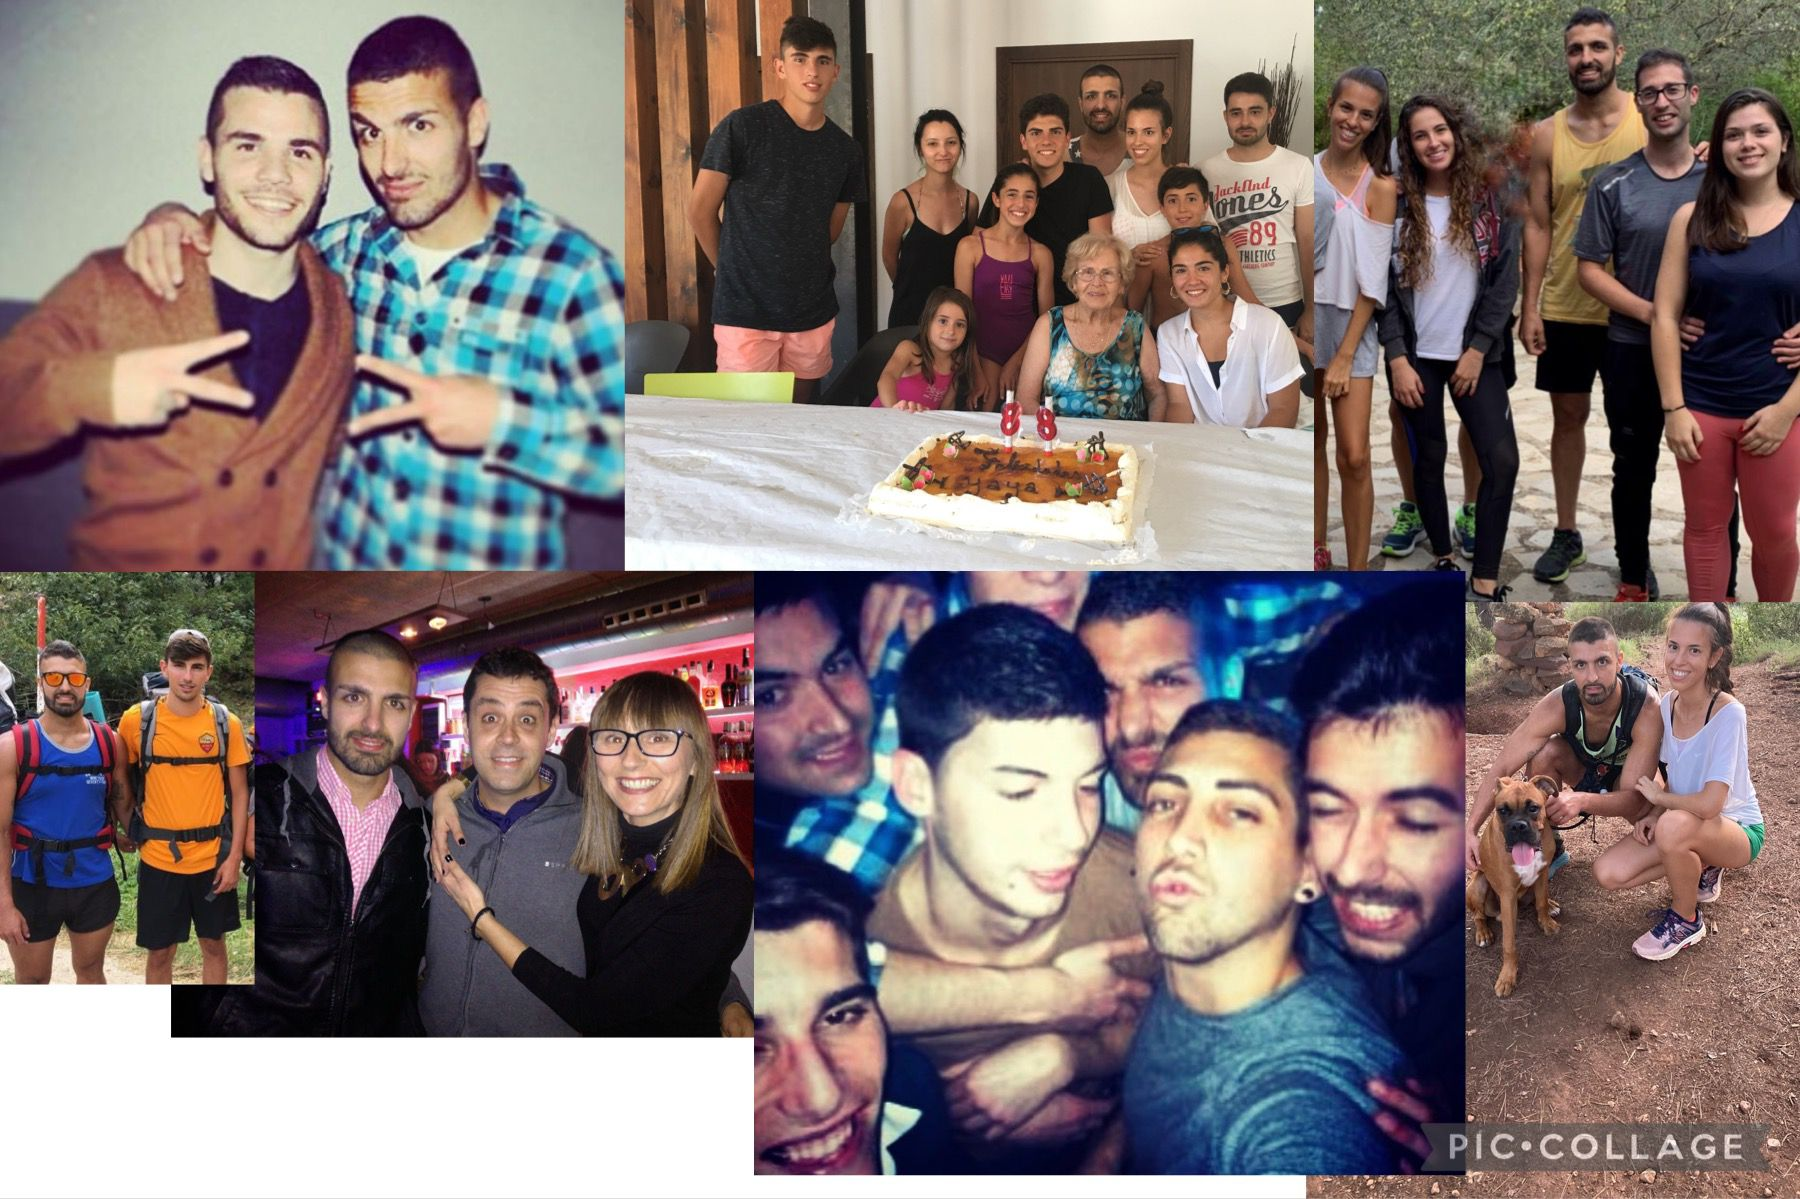
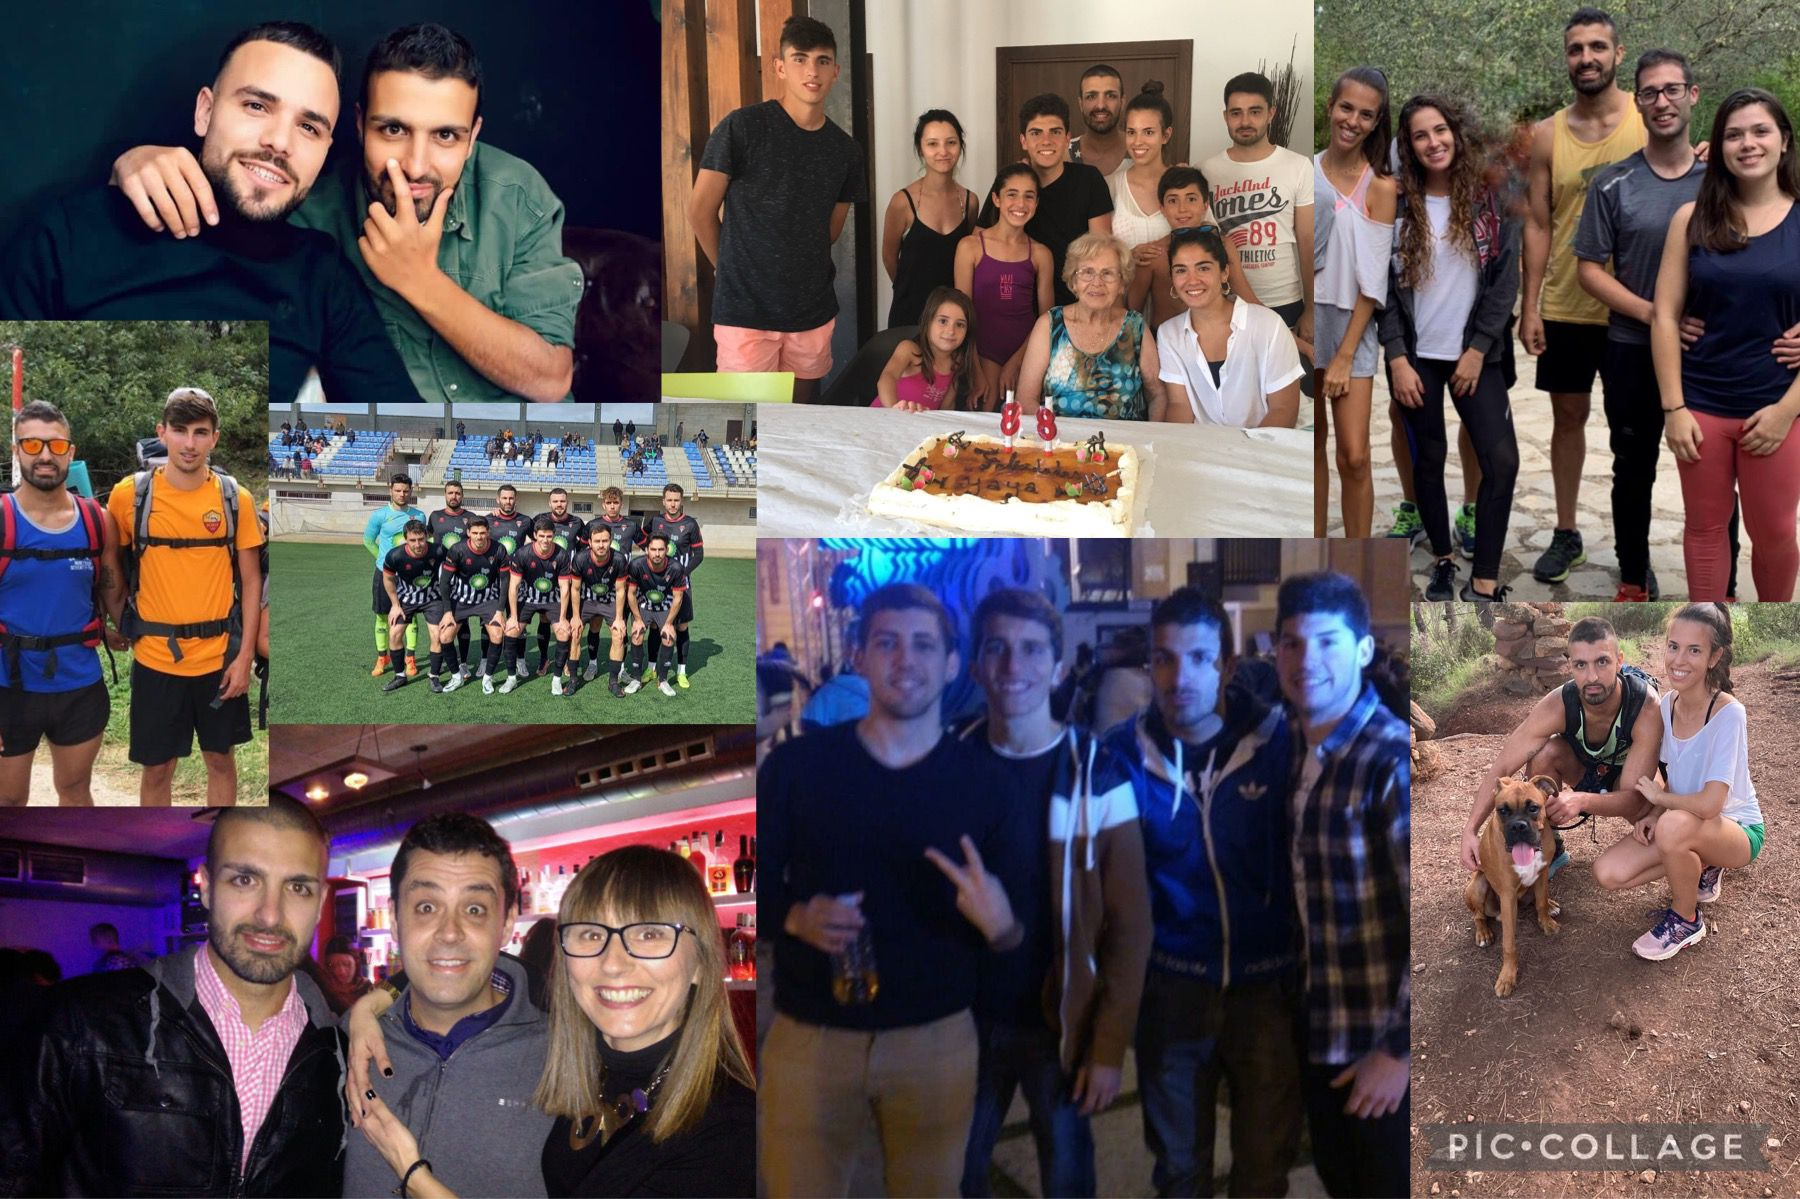
Add tor

diff --git a/index.html b/index.html
@@ -22,14 +22,24 @@
 
       <p>Con 30 y con muchos más sigue peleando por lo que más te gusta y lo que más te llena, el futbol, ¡¡por que no hay persona más luchadora e implicada que tú!! ❤💪🏽</p>
       <img class="bebe-image" src="./victor/img/futbol3.jpeg" alt="Bebe" />
+      <img class="bebe-image" src="./victor/img/equipo.jpeg" alt="Bebe" />
 
      
       <p>Bueno lo que no cambia con el tiempo es lo que manqueas con el sniper pesado jugando al Fortnite... Aún así tú Squad siempre te elegiría para un PVP.</p>
       <img class="bebe-image" src="./victor/img/fortnite.jpeg" alt="Bebe" />
+
+      <h2 class="sub-heading">Tu hijo también ha querido felicitarte</h2>
       
+      <p>Guau Guau Guaaau!   Guau Guauu!</p>
+      <img class="bebe-image" src="./victor/img/tor.jpeg" alt="Bebe" />
+
+
+
     </section>
     <section class="section">
-      <h2 class="sub-heading">Cositas</h2>
+      
+      <h2 class="sub-heading">🤪</h2>
+      
       <div class="details">
         <i class="fas fa-map-marked-alt"></i>
         <h3 class="details-heading" id="rsvp">Lugar</h3>
@@ -50,7 +60,7 @@
           Ámsterdam, Basilea, Berlín, Bolonia, Bruselas, Budapest, Burdeos, Cerdeña, Copenhague, Estocolmo, Ginebra, Hamburgo, Ibiza, Londres, Lyon, Mallorca, Malta, Menorca, Milán, Múnich, Mykonos, Nápoles, Niza, Oporto, París, Praga, Roma, Santorini, Tenerife, Turín, Venecia y Viena
         </p>
         <h2 class="sub-heading">¡Disfurta del regalo y recuerda que te queremos!</h2>
-        <img class="vi-image" src="./victor/img/collage.jpeg" alt="Bebe" />
+        <img class="c-image" src="./victor/img/collage.jpeg" alt="Bebe" />
 
       </div>
       

diff --git a/victor/theme.css b/victor/theme.css
@@ -85,6 +85,10 @@ html, body{
     width: 100%
 }
 
+.c-image{
+    width: 115%;
+    align-content:center;
+}
 
 @media only screen and (max-width: 600px) {
     .heading {
